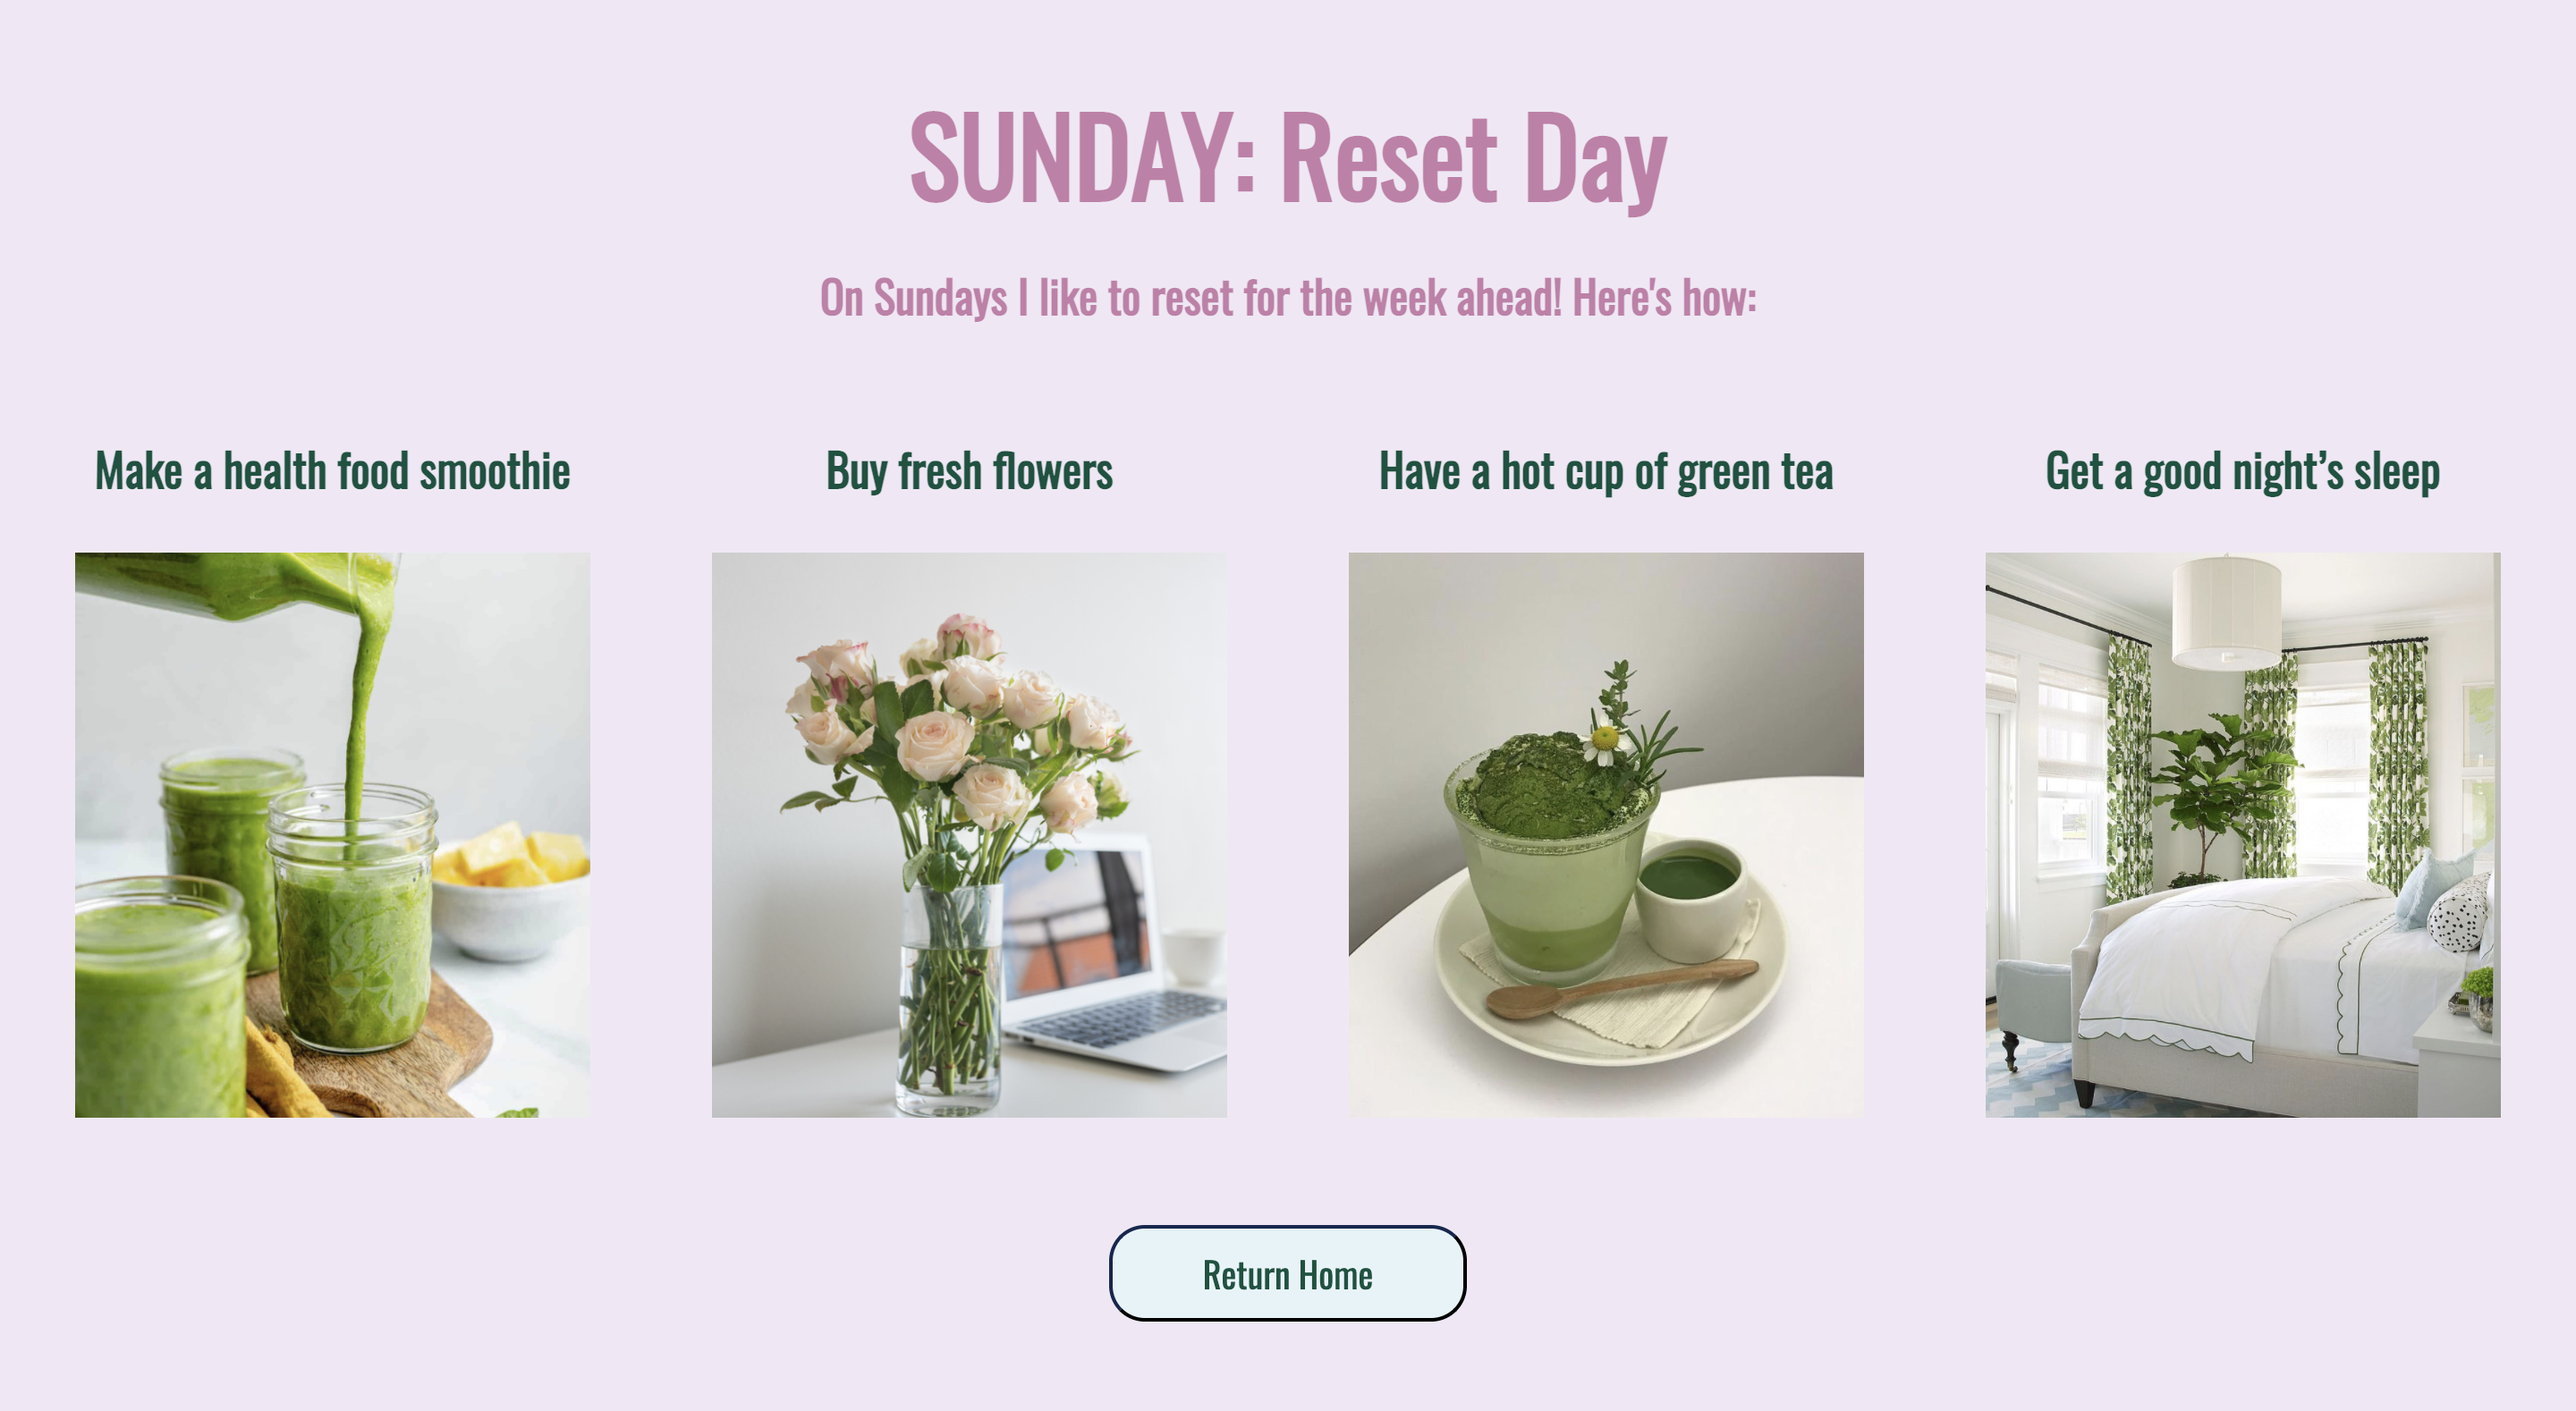
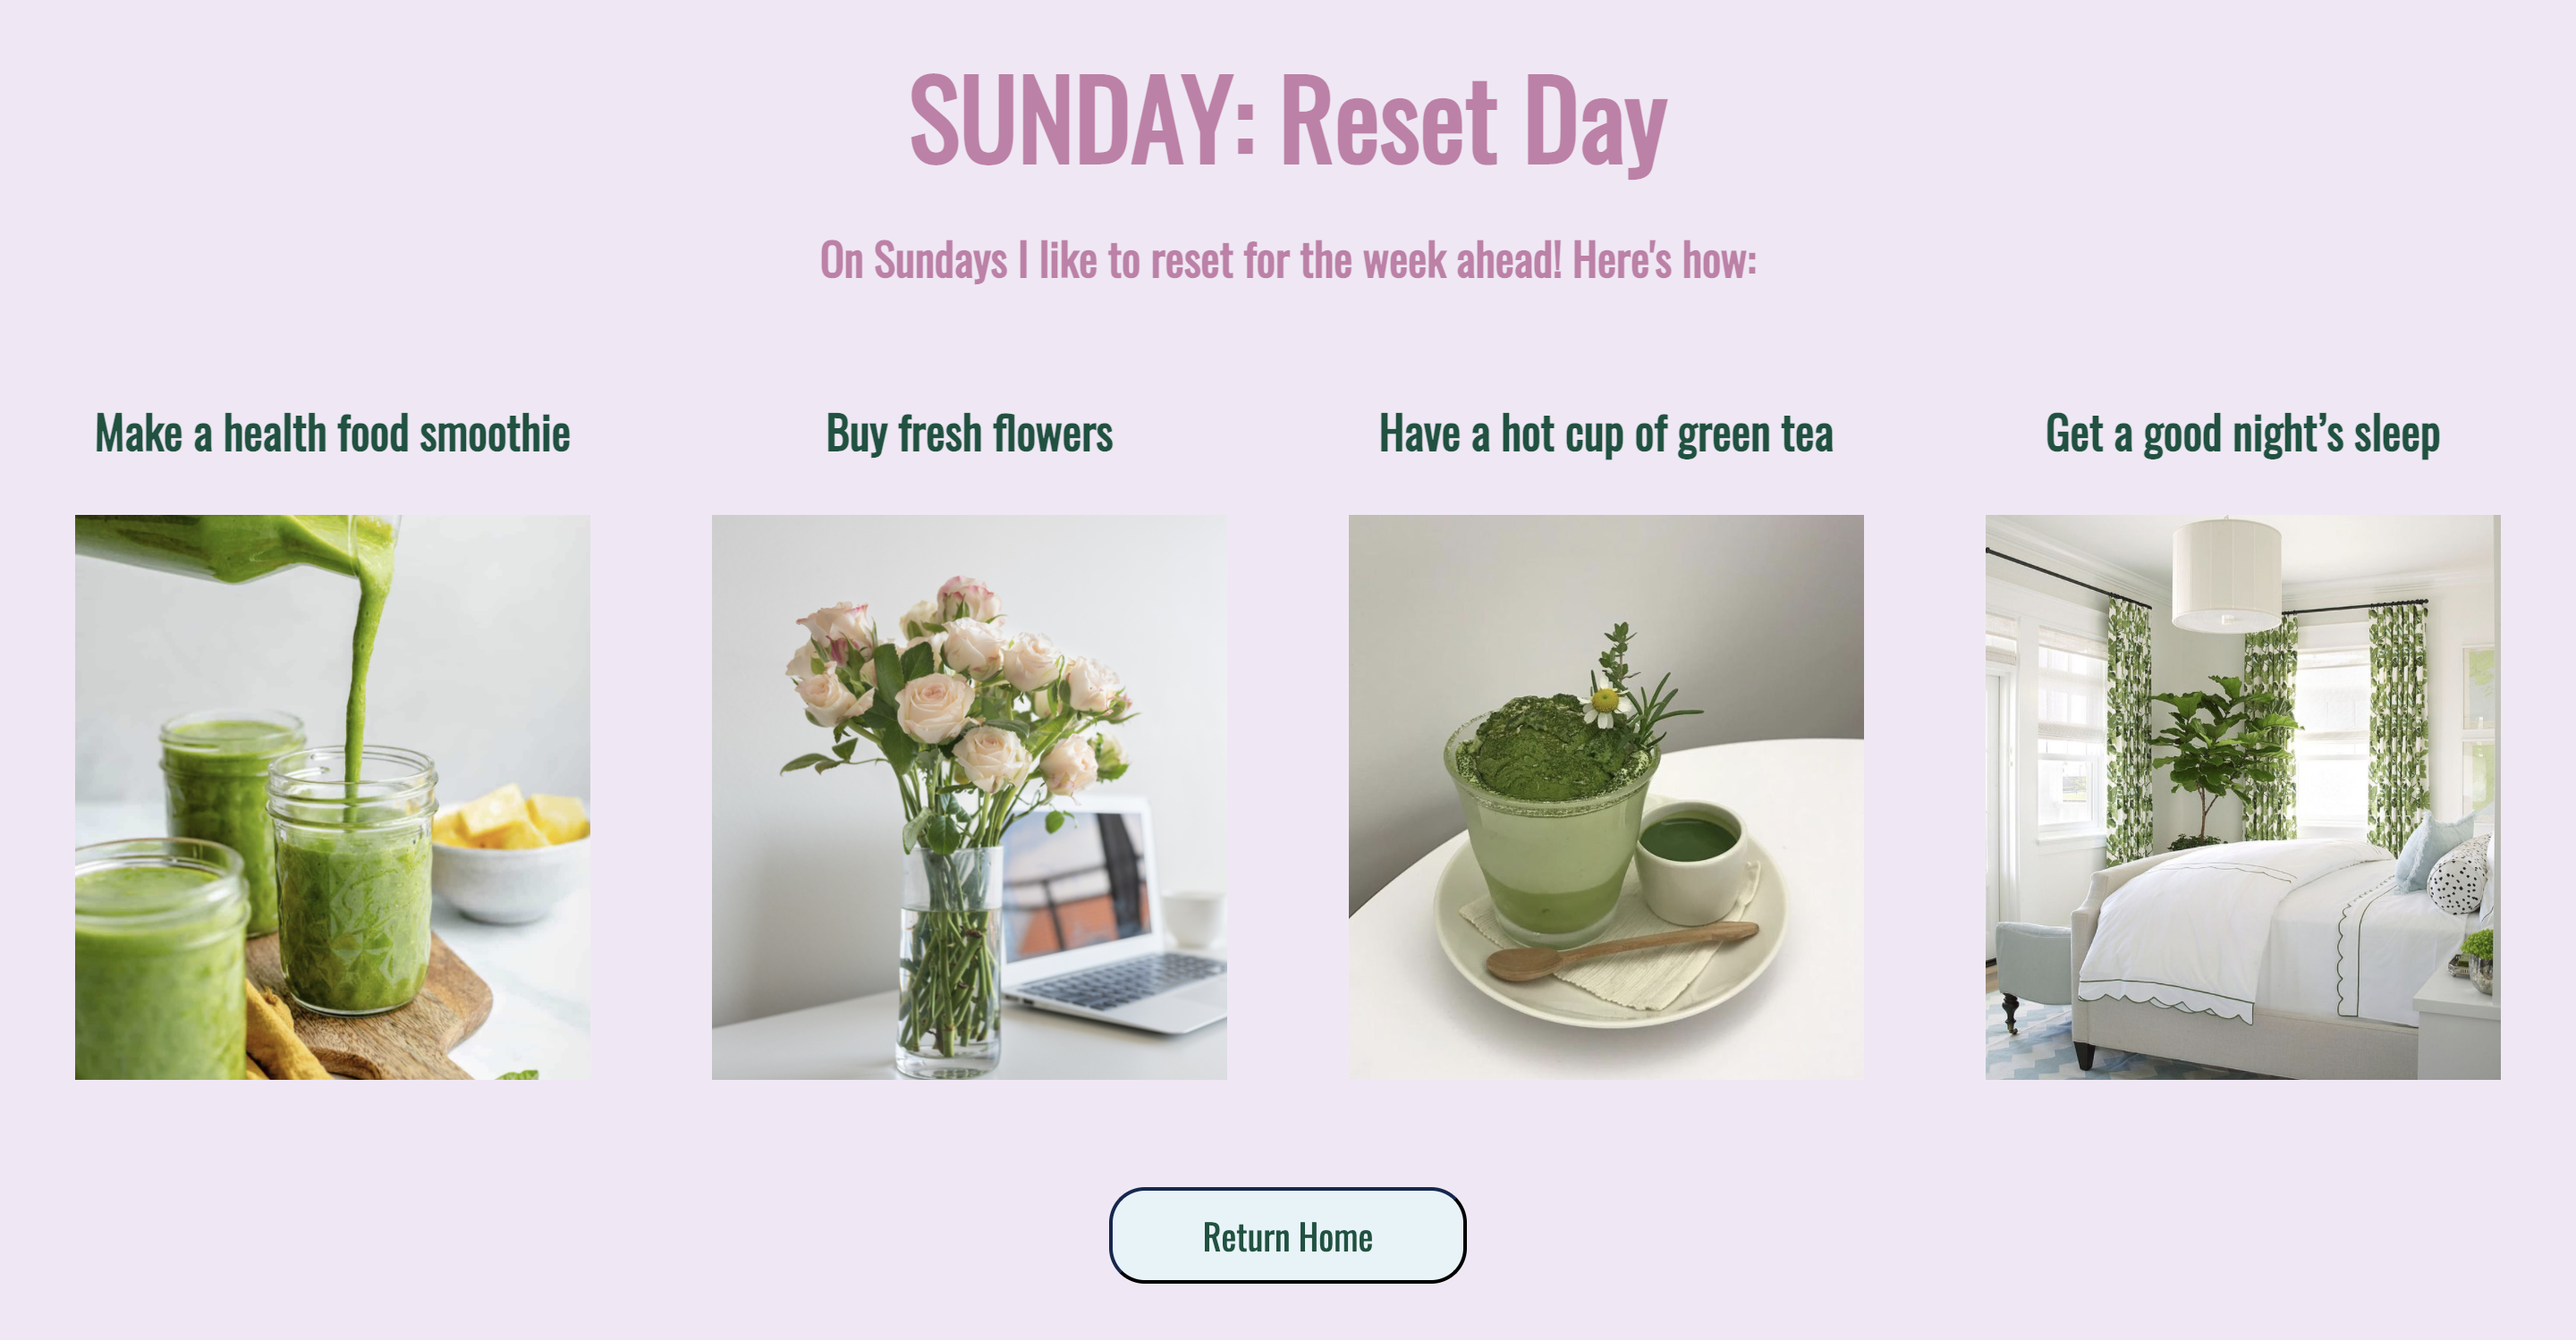
repo

diff --git a/Final/Home-Work/style.css b/Final/Home-Work/style.css
@@ -1,4 +1,5 @@
-body{
+@media screen and (min-width: 700px){
+  body{
   background-color: #FFF6EF;
 }
 
@@ -42,6 +43,12 @@ nav a{
   margin-top: 0px;
 }
 
+a{
+  color: #CB997E;
+  text-decoration-color: #CB997E;
+  text-decoration-style: dotted;
+}
+
 #one, #two, #three, #four{
 padding-right: 80px;
 margin-bottom: 30px;
@@ -50,7 +57,6 @@ margin-bottom: 30px;
 #examples, #examples2{
   font-family: "Oswald";
   display:flex;
-  /* text-align: center; */
   color: #CB997E;
   font-size: 17px;
   margin-top: 50px;
@@ -61,17 +67,6 @@ margin-bottom: 30px;
   padding-left: 28px;
   padding-bottom: 80px;
 }
-
-/* #examples2{
-  font-family: "Oswald";
-  display:flex;
-  text-align: center;
-  color: #CB997E;
-  font-size: 17px;
-  margin-top: 50px;
-  margin-left: 32px;
-  margin-bottom: 60px;
-} */
 
 .code, .code2{
   display: flex;
@@ -85,5 +80,101 @@ img{
   height: 40vh;
   width:30vw;
   margin-right: 80px;
-  object-fit: cover;
+  object-fit: contain;
+}
+}
+
+
+@media screen and (max-width: 701px){
+body{
+  background-color: #FFF6EF;
+}
+
+nav{
+  display:flex;
+  width: 35vw;
+  justify-content: center;
+  margin: 20px auto 20px calc(100% - 68vw);
+}
+
+nav a{
+  font-family: Oswald;
+  font-size: 20px;
+  font-style: italic;
+  font-weight: 100;
+  margin-left: 30px;
+  text-decoration-style: dotted;
+  color: #DEBEA8;
+}
+
+#home{
+  color: #CB997E;
+}
+
+#hometext{
+  font-family: "Oswald";
+  font-size: 30px;
+  text-align: center;
+  color: #6B705C;
+  letter-spacing: 10px;
+  word-spacing: 20px;
+  margin-top: 20px;
+  margin-bottom: 30px;
+}
+
+#check{
+  color: #A5A58D;
+  font-family: "Oswald";
+  font-size: 16px;
+  text-align: center;
+  margin-top: 0px;
+  margin-bottom: -20px;
+  padding-left: 20px;
+  padding-right: 20px;
+}
+
+a{
+  color: #CB997E;
+  text-decoration-color: #CB997E;
+  text-decoration-style: dotted;
+}
+
+#one, #two, #three, #four{
+padding-right: 80px;
+margin-bottom: 20px;
+}
+
+#examples, #examples2{
+  font-family: "Oswald";
+  text-align: center;
+  color: #CB997E;
+  font-size: 10px;
+  margin-top: 50px;
+  margin-left: 60px;
+}
+
+#examples{
+  margin-bottom: -50px;
+}
+
+#examples2{
+  margin-bottom: 40px;
+  padding-bottom: 0px;
+}
+
+.code, .code2{
+  display: flex;
+  flex-wrap: wrap;
+  justify-content: center;
+}
+
+img{
+  flex-grow: 1;
+  height: 20vh;
+  width:200vw;
+  margin-right: 60px;
+  object-fit: contain;
+  object-position: center;
+}
+
 }

diff --git a/Final/Home-Work/index.html b/Final/Home-Work/index.html
@@ -25,21 +25,21 @@
   <section id="examples">
 
     <div class="code">
-      <h2 id ="one" class="description">one</h2>
+      <a href="https://nriecker.github.io/WebFiles/Midterm/Sunday/index.html"><h2 id ="one" class="description">one</h2></a>
     </div>
 
     <div class="code">
-      <h2 id="two" class="description">two</h2>
+      <a href="https://nriecker.github.io/WebFiles/Week11/index.html"><h2 id="two" class="description">two</h2></a>
     </div>
   </section>
 
 <section id="examples2">
   <div class="code2">
-    <h2 id="three" class="description2">three</h2>
+    <a href="https://nriecker.github.io/WebFiles/Week7/index.html"><h2 id="three" class="description2">three</h2></a>
   </div>
 
   <div class="code2">
-    <h2 id="four" class="description2">four</h2>
+    <a href="https://nriecker.github.io/WebFiles/Midterm/index.html"><h2 id="four" class="description2">four</h2></a>
   </div>
 </section>
 

diff --git a/Final/SM/index.js b/Final/SM/index.js
@@ -13,12 +13,12 @@ document.getElementById("picbutton").addEventListener("click", buttonClicked);
     }
   }
 
-  document.getElementById("picbutton2").addEventListener("click", buttonClicked);
+  document.getElementById("picbutton2").addEventListener("click", buttonClick);
 
-    const photoArrays = ["assets/pic1.png", "assets/pic2.png" , "assets/pic3.png" , "assets/pic4.png" , "assets/pic5.png", "assets/pic6.png" , "assets/pic7.png" , "assets/pic8.png"];
+    const photoArrays = ["assets/pic9.jpeg", "assets/pic10.jpeg" , "assets/pic11.jpeg" , "assets/pic12.jpeg" , "assets/pic13.jpeg", "assets/pic14.jpeg" , "assets/pic15.jpeg" , "assets/pic16.jpeg"];
       let piccounts = 0;
 
-    function buttonClicked(){
+    function buttonClick(){
       console.log(pics[piccounts]);
       document.getElementById("ropic2").src = photoArrays[piccounts];
       if(piccounts>=7){

diff --git a/Final/SM/style.css b/Final/SM/style.css
@@ -1,4 +1,5 @@
-body{
+@media screen and (min-width: 700px){
+  body{
   background-color: #FFF6EF;
 }
 
@@ -100,7 +101,7 @@ nav a{
   padding: 0px;
   width: 400px;
   height: auto;
-  overflow: hidden;
+  /* overflow: hidden; */
 }
 
 
@@ -121,4 +122,10 @@ button{
 #picbutton, #picbutton2{
   letter-spacing: 3px;
   word-spacing: 1px;
+}
+}
+
+@media screen and (max-width: 701px){
+
+
 }

diff --git a/Final/Home-Work/index.js b/Final/Home-Work/index.js
@@ -10,6 +10,7 @@ for(i=0;i<document.getElementsByClassName('code').length;i++){
   document.getElementsByClassName("code")[i].setAttribute("id", title[i]);
 }
 
+
 const image = ["bc.png","midterm.png"];
 
 const titles = ["Breakfast Club Quote Generator", "Self Care Midterm Home Page"];

diff --git a/Final/SM/index.html b/Final/SM/index.html
@@ -42,7 +42,7 @@
 
     <div id="picdiv2" class="flexitem2">
       <section id="pics2">
-        <img id="ropic2" src="assets/pic1.png"><br>
+        <img id="ropic2" src="assets/pic9.jpeg"><br>
         <button id="picbutton2">MORE PICS</button>
       </section>
     </div>

diff --git a/Final/About/style.css b/Final/About/style.css
@@ -77,3 +77,8 @@ nav a{
     margin-bottom: 40px;
   }
 }
+
+@media screen and (max-width: 701px){
+
+
+}
